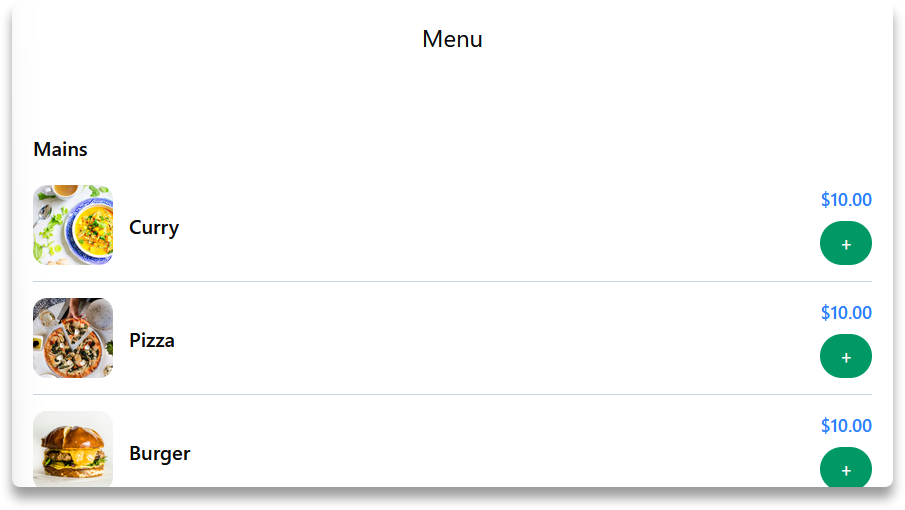
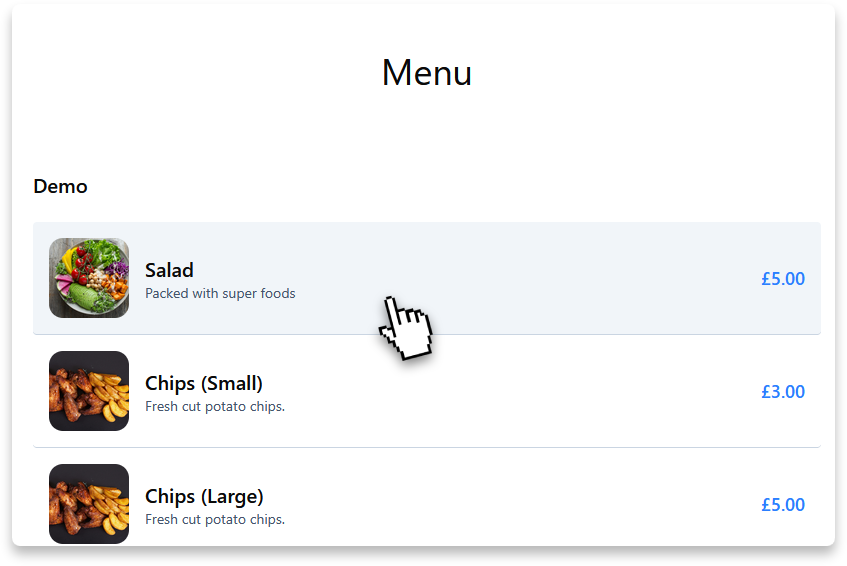
Redundant functions removed

diff --git a/src/components/Item/index.tsx b/src/components/Item/index.tsx
@@ -1,78 +1,26 @@
-import { MenuItem, MenuItemOptionSet } from "@/types";
-
 type Props = {
-  item: MenuItem;
+  name: string;
+  description: string;
+  price: number;
+  imageUrl: string;
 };
 
-export function Item({ item }: Props) {
-  const masterOpts = item.MenuItemOptionSets.filter(
-    (set) => set.IsMasterOptionSet,
-  );
-  const options = item.MenuItemOptionSets.filter(
-    (set) => !set.IsMasterOptionSet,
-  );
-
-  if (masterOpts.length === 1) {
-    return masterOpts[0].MenuItemOptionSetItems.map((option) => (
-      <div className="border-b border-b-slate-300">
-        <div className="mt-4 flex justify-between pb-4" key={option.PublicId}>
-          <div className="flex">
-            <img
-              className="h-20 w-20 rounded-xl object-cover"
-              src={option.ImageUrl ? option.ImageUrl : item.ImageUrl}
-            />
-            <div className="ml-4 flex flex-col justify-center">
-              <h3 className="text-xl font-semibold">
-                {item.Name} ({option.Name})
-              </h3>
-              <p className="text-sm text-slate-600">{item.Description}</p>
-            </div>
-          </div>
-          <div className="flex flex-col justify-center gap-2 text-right">
-            <p className="text-lg font-semibold text-blue-500">
-            £{option.Price.toFixed(2)}
-            </p>
-            <button className="cursor-pointer rounded-full bg-emerald-600 px-3 py-[0.5rem] text-lg font-semibold text-white hover:bg-emerald-700">
-              +
-            </button>
-          </div>
-        </div>
-
-        <div className="flex gap-2">
-          {options.map((set: MenuItemOptionSet) =>
-            set.MenuItemOptionSetItems.map((item) => <p>{item.Name}</p>),
-          )}
-        </div>
-      </div>
-    ));
-  }
-
+export function Item({ name, description, price, imageUrl }: Props) {
   return (
-    <div className="border-b border-b-slate-300">
-      <div className="mt-4 flex justify-between pb-4">
+    <div className="cursor-pointer rounded border-b border-b-slate-300 p-4 hover:bg-slate-100">
+      <div className="flex justify-between">
         <div className="flex">
-          <img
-            className="h-20 w-20 rounded-xl object-cover"
-            src={item.ImageUrl}
-          />
+          <img className="h-20 w-20 rounded-xl object-cover" src={imageUrl} />
           <div className="ml-4 flex flex-col justify-center">
-            <h3 className="text-xl font-semibold">{item.Name}</h3>
-            <p className="text-sm text-slate-600">{item.Description}</p>
+            <h3 className="text-xl font-semibold">{name}</h3>
+            <p className="text-sm text-slate-600">{description}</p>
           </div>
         </div>
         <div className="flex flex-col justify-center gap-2 text-right">
           <p className="text-lg font-semibold text-blue-500">
-          £{item.Price.toFixed(2)}
+            £{price.toFixed(2)}
           </p>
-          <button className="cursor-pointer rounded-full bg-emerald-600 px-3 py-[0.5rem] text-lg font-semibold text-white hover:bg-emerald-700">
-            +
-          </button>
         </div>
-      </div>
-      <div className="flex gap-2">
-        {options.map((set: MenuItemOptionSet) =>
-          set.MenuItemOptionSetItems.map((item) => <p>{item.Name}</p>)
-        )}
       </div>
     </div>
   );

diff --git a/src/App.tsx b/src/App.tsx
@@ -4,8 +4,7 @@ import "./App.css";
 
 import { Item } from "./components/Item";
 import { Section } from "./components/Section";
-import { Menu } from "./types";
-import { sortByOrder } from "./utils/sorting";
+import { Menu, MenuItemOptionSet } from "./types/types";
 
 function App() {
   const [menu, setMenu] = useState<Menu | null>(null);
@@ -16,22 +15,48 @@ function App() {
     )
       .then((res) => res.json())
       .then((data) => {
-        sortByOrder(data);
         setMenu(data);
       })
-      .catch((error) => console.error(error.message));
+      .catch((error) => new Error(error.message));
   }, []);
 
   return (
     <main className="flex flex-col">
-      <h1 className="mb-8 text-2xl">Menu</h1>
+      <h1 className="mb-8 text-4xl">Menu</h1>
       {menu &&
         menu.MenuSections.map((section) => {
           return (
             <Section key={section.MenuSectionId} section={section}>
-              {section.MenuItems.map((item) => (
-                <Item key={item.PublicId} item={item} />
-              ))}
+              {section.MenuItems.map((item) => {
+                const standalone: MenuItemOptionSet | undefined =
+                  item.MenuItemOptionSets.find(
+                    (option: MenuItemOptionSet) => option.IsMasterOptionSet,
+                  );
+
+                if (standalone) {
+                  return standalone.MenuItemOptionSetItems.map((option) => (
+                    <Item
+                      key={option.PublicId}
+                      name={`${item.Name} (${option.Name})`}
+                      description={item.Description}
+                      price={option.Price}
+                      imageUrl={
+                        option.ImageUrl ? option.ImageUrl : item.ImageUrl
+                      }
+                    />
+                  ));
+                }
+
+                return (
+                  <Item
+                    key={item.PublicId}
+                    name={item.Name}
+                    description={item.Description}
+                    price={item.Price}
+                    imageUrl={item.ImageUrl}
+                  />
+                );
+              })}
             </Section>
           );
         })}

diff --git a/src/types/types.ts b/src/types/types.ts
@@ -27,7 +27,7 @@ export type MenuSection = {
   MenuSectionMetadata: string[]; // this might be wrong
 };
 
-export type MenuItem = {
+type MenuItem = {
   MenuItemId: number;
   Name: string;
   Description: string;
@@ -81,7 +81,7 @@ export type MenuItemOptionSet = {
   MenuItemOptionSetMetaData: string[]; // who knows
 };
 
-export type MenuItemOptionSetItem = {
+type MenuItemOptionSetItem = {
   MenuItemOptionSetItemId: number;
   Name: string;
   Price: number;

diff --git a/index.html b/index.html
@@ -2,7 +2,7 @@
 <html lang="en">
   <head>
     <meta charset="UTF-8" />
-    <link rel="icon" type="image/svg+xml" href="/vite.svg" />
+    <link rel="icon" type="image/x-icon" href="/favicon.ico" />
     <meta name="viewport" content="width=device-width, initial-scale=1.0" />
     <title>Flipdish - Menu</title>
   </head>

diff --git a/src/components/Section/index.tsx b/src/components/Section/index.tsx
@@ -1,4 +1,4 @@
-import { MenuSection } from "@/types";
+import { MenuSection } from "@/types/types";
 
 type Props = {
   children: React.ReactNode;
